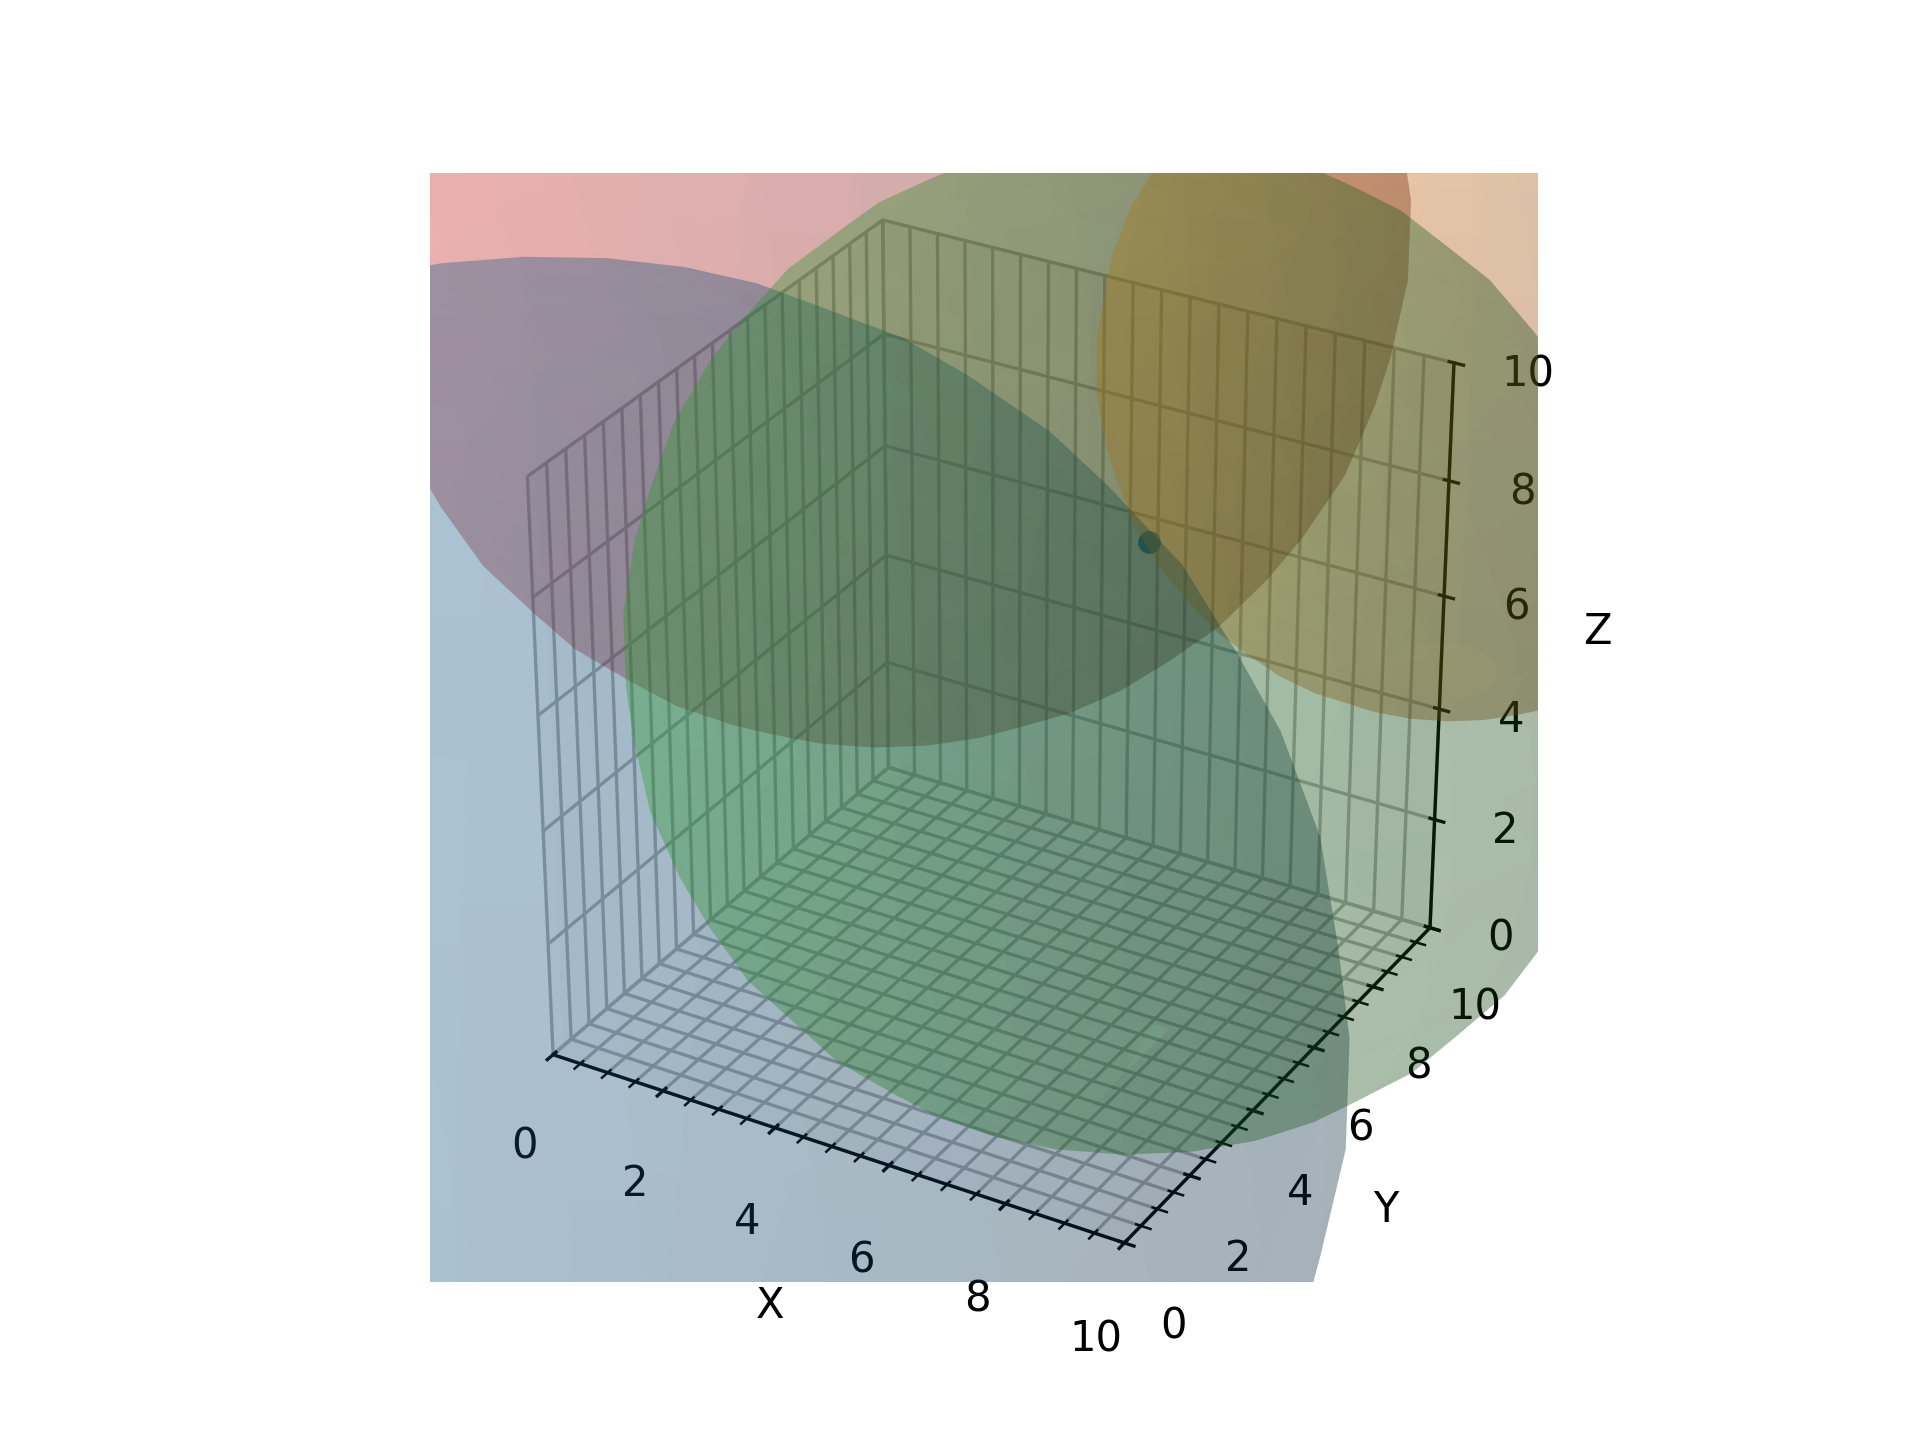
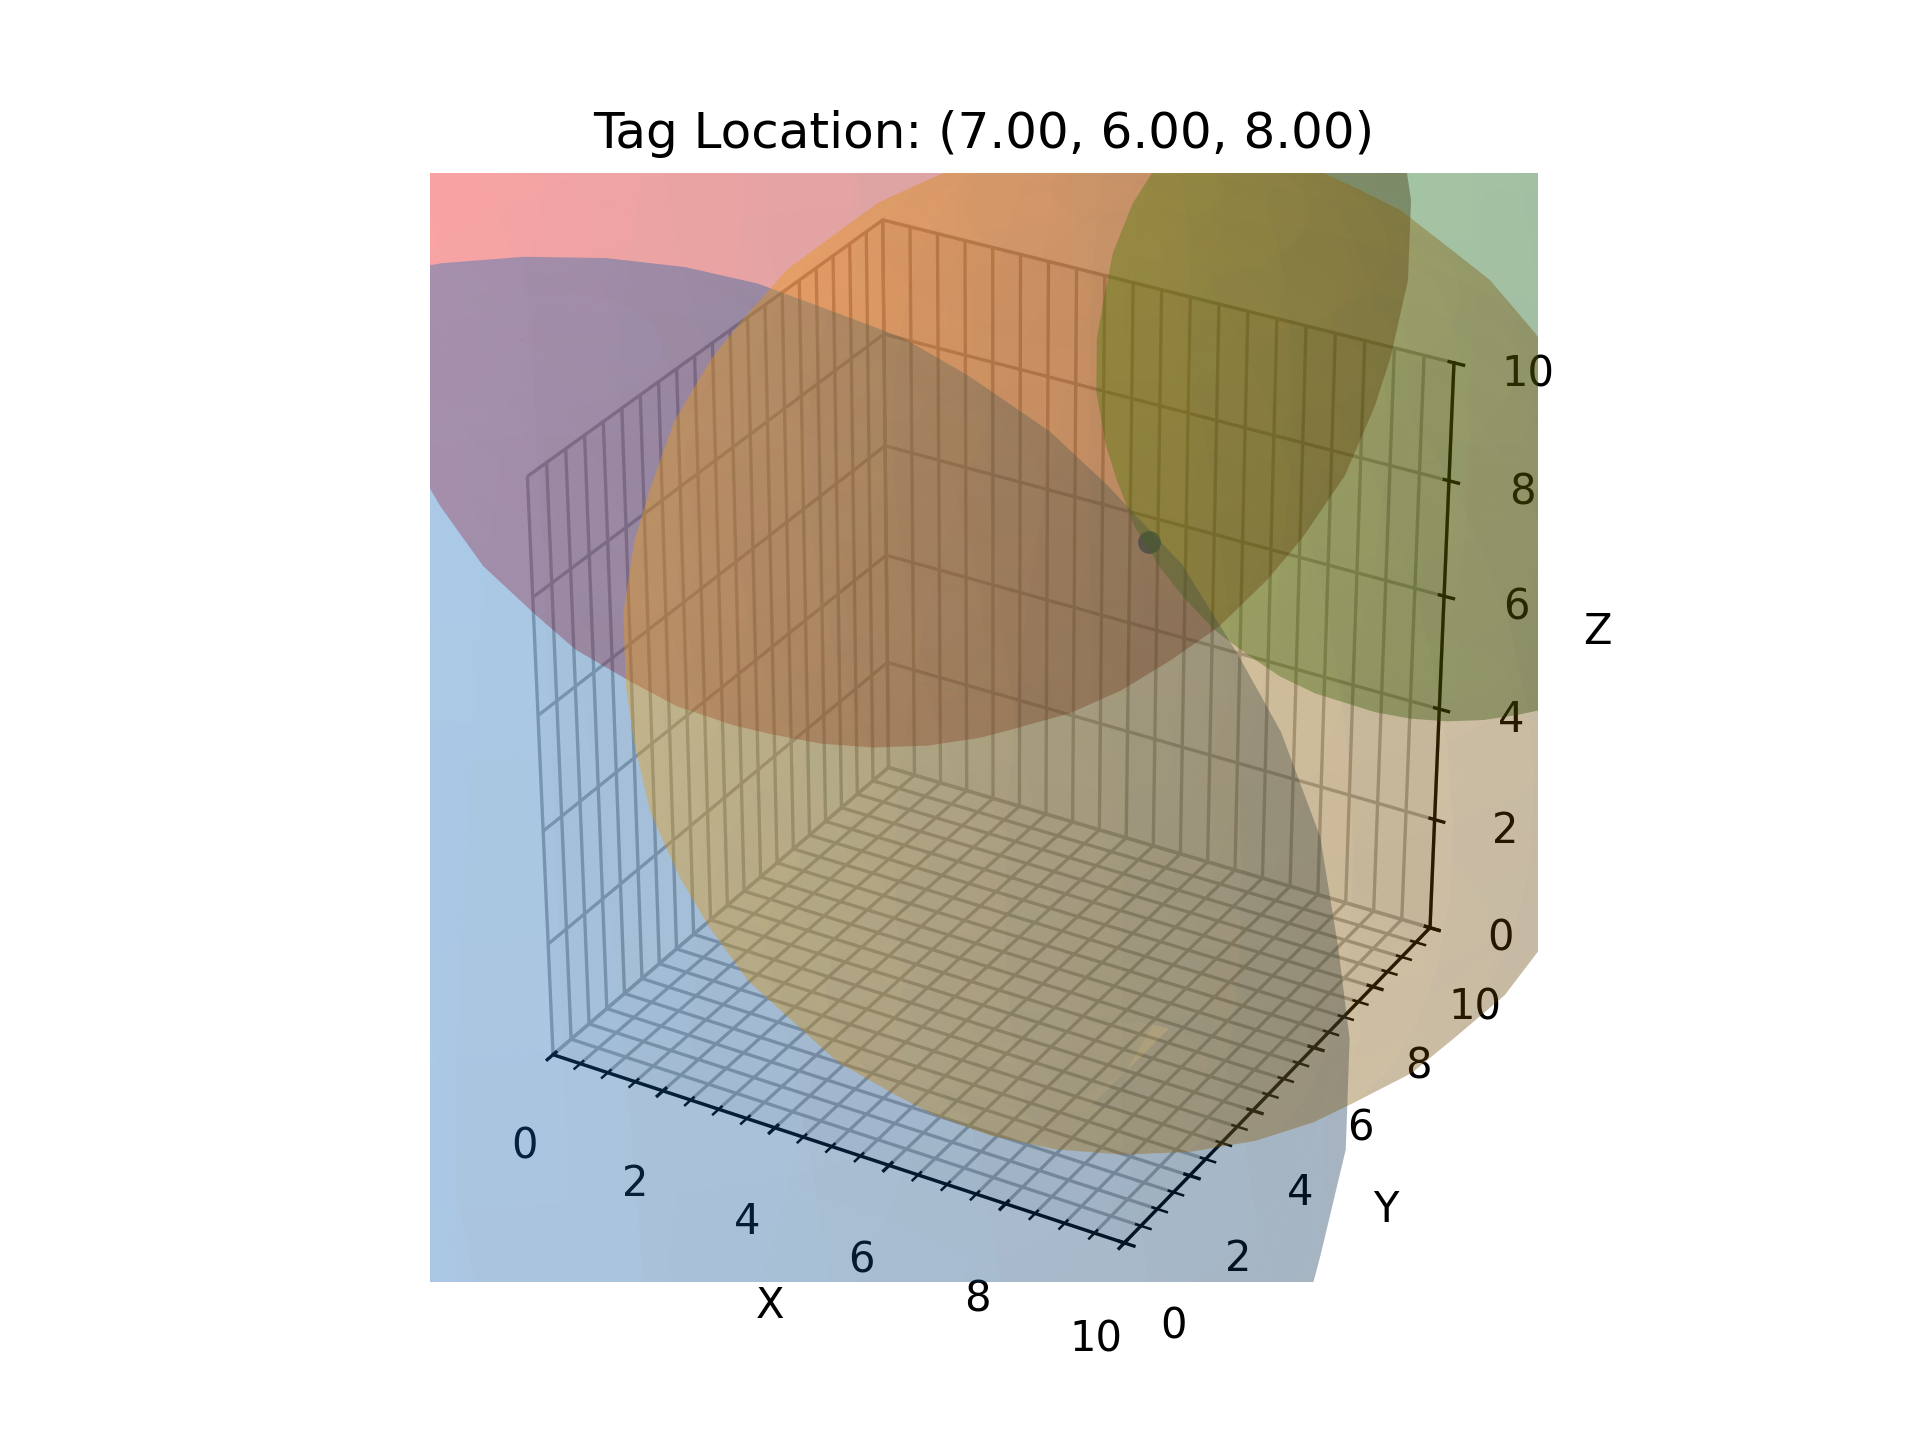
defined sphere colors in 3D localization

Changed region(s): [[0.3125, 0.0625, 0.8125, 0.8125]]

diff --git a/3D/trilateration_localization.py b/3D/trilateration_localization.py
@@ -1,11 +1,13 @@
 import numpy as np
 import matplotlib.pyplot as plt
 
-from circle_intersections import *
+from sphere_intersections import *
 from plotter import *
 
 
 class TrilaterationLocalization:
+
+    sphere_colors = ['dodgerblue', 'green', 'orange', 'red', 'purple', 'brown', 'pink', 'gray', 'olive', 'cyan']
 
 
     @classmethod
@@ -19,31 +21,36 @@ class TrilaterationLocalization:
 
         #  initialize vars
         self.set_circle_count(circle_count=2)
-        self.circle_intersections_class = CircleIntersections()
+        self.circle_intersections_class = SphereIntersections()
 
         #  initalize plots
         self.plot_spheres_class = PlotSpheres()
 
 
-    def localize(self, circles:list):
-        #  'circles' input should be a list of tuples
+    def localize(self, spheres:list):
+        #  'spheres' input should be a list of tuples
         #  each tuple should define a circle: (radius, center_x, center_y, center_z)
 
-        self.plot_spheres_class.plot_spheres(spheres=circles)
+
+        for idx, sphere in enumerate(spheres):
+            sphere_color=self.sphere_colors[idx]
+            self.plot_spheres_class.set_color(color=sphere_color)
+            self.plot_spheres_class.plot_spheres(sphere)
+
 
         self.intersection = self.circle_intersections_class.get_intersections(
-            circ_1=circles[0],
-            circ_2=circles[1],
-            circ_3=circles[2],
-            circ_4=circles[3]
+            sphere_1=spheres[0],
+            sphere_2=spheres[1],
+            sphere_3=spheres[2],
+            sphere_4=spheres[3]
         )
 
 
-    def main(self, circles, title):
+    def main(self, spheres, title):
 
-        #  indicate how many circles have been defined by input
-        self.set_circle_count(circle_count=len(circles))
-        self.localize(circles)
+        #  indicate how many spheres have been defined by input
+        self.set_circle_count(circle_count=len(spheres))
+        self.localize(spheres)
 
 
         #  plot spheres and intersection

diff --git a/3D/plotter.py b/3D/plotter.py
@@ -5,37 +5,47 @@ import numpy as np
 
 class PlotSpheres():
 
+    @classmethod
+    def set_color(cls, color):
+        cls.color=color
+
+
     def __init__(self):
 
         # Initialize figure and add 3D subplot
         self.fig = plt.figure()
         self.ax = self.fig.add_subplot(projection='3d')
+        self.set_color(color='blue')
 
 
-    def plot_spheres(self, spheres:list):
+    def plot_spheres(self, sphere:tuple):
 
-        for sphere in spheres:
-
-            #  Define the sphere
-            (r, x0, y0, z0) = sphere
+        #  Define the sphere
+        (r, x0, y0, z0) = sphere
 
 
-            # Generate spherical coordinates: u for azimuth, v for elevation
-            u, v = np.mgrid[0:2 * np.pi:30j, 0:np.pi:20j]  # creates a 2D meshgrid
+        # Generate spherical coordinates: u for azimuth, v for elevation
+        u, v = np.mgrid[0:2 * np.pi:30j, 0:np.pi:20j]  # creates a 2D meshgrid
 
 
-            # Convert spherical coordinates to Cartesian coordinates
-            x = r * np.cos(u) * np.sin(v) + x0
-            y = r * np.sin(u) * np.sin(v) + y0
-            z = r * np.cos(v) + z0
+        # Convert spherical coordinates to Cartesian coordinates
+        x = r * np.cos(u) * np.sin(v) + x0
+        y = r * np.sin(u) * np.sin(v) + y0
+        z = r * np.cos(v) + z0
 
 
-            # Plot the surface of the sphere
-            self.ax.plot_surface(x, y, z, alpha=0.2)
+        # Plot the surface of the sphere
+        self.ax.plot_surface(x, y, z, alpha=0.2, color=self.color)
 
 
     def plot_intersection(self, intersection:tuple):
+
+        #  plot the intersection point relative to the intersecting spheres
         self.ax.scatter(*intersection)
+
+        #  generate a title that indicates the intersection point of the spheres
+        plot_title = f'Tag Location: ({intersection[0][0]:.2f}, {intersection[1][0]:.2f}, {intersection[2][0]:.2f})'
+        self.ax.set_title(plot_title)
 
 
     def format_plots(self):# Set labels for the axes

diff --git a/3D/sphere_intersections.py b/3D/sphere_intersections.py
@@ -1,19 +1,19 @@
 import numpy as np
 
 
-class CircleIntersections:
+class SphereIntersections:
 
     def __init__(self):
         pass
 
 
-    def get_intersections(self, circ_1:tuple, circ_2:tuple, circ_3:tuple, circ_4:tuple):
-        #  each circ_n tuple should define a circle: (radius, center_x, center_y)
+    def get_intersections(self, sphere_1:tuple, sphere_2:tuple, sphere_3:tuple, sphere_4:tuple):
+        #  each sphere_n tuple should define a circle: (radius, center_x, center_y)
 
-        r1, x1, y1, z1 = circ_1
-        r2, x2, y2, z2 = circ_2
-        r3, x3, y3, z3 = circ_3
-        r4, x4, y4, z4 = circ_4
+        r1, x1, y1, z1 = sphere_1
+        r2, x2, y2, z2 = sphere_2
+        r3, x3, y3, z3 = sphere_3
+        r4, x4, y4, z4 = sphere_4
 
         A = 2*(x2-x1)
         B = 2*(y2-y1)
